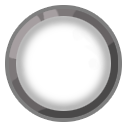
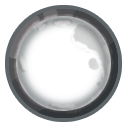
0.5.1 Energy Orb added

Changed region(s): [[0.0312, 0.0312, 0.9688, 0.9688], [0.7188, 0.7188, 0.75, 0.75]]

diff --git a/src/main/java/rubimod/powers/debuff/Sin.java b/src/main/java/rubimod/powers/debuff/Sin.java
@@ -1,5 +1,6 @@
 package rubimod.powers.debuff;
 
+import com.badlogic.gdx.math.MathUtils;
 import com.megacrit.cardcrawl.core.AbstractCreature;
 import com.megacrit.cardcrawl.dungeons.AbstractDungeon;
 import com.megacrit.cardcrawl.powers.AbstractPower;
@@ -12,10 +13,6 @@ public class Sin extends BasePower {
     public static final String POWER_ID = makeID(Sin.class.getSimpleName());
     private static final AbstractPower.PowerType TYPE = AbstractPower.PowerType.DEBUFF;
     private static final boolean TURN_BASED = false;
-    //The only thing TURN_BASED controls is the color of the number on the power icon.
-    //Turn based powers are white, non-turn based powers are red or green depending on if their amount is positive or negative.
-    //For a power to actually decrease/go away on its own they do it themselves.
-    //Look at powers that do this like VulnerablePower and DoubleTapPower.
 
     public Sin(AbstractCreature owner, int amount) {
         super(POWER_ID, TYPE, TURN_BASED, owner, amount);
@@ -25,6 +22,36 @@ public class Sin extends BasePower {
     public void stackPower(int stackAmount) {
         super.stackPower(stackAmount);
         updateDescription();
+    }
+
+    public static int calculateSin(AbstractCreature target, AbstractCreature source, int base)
+    {int new_damage = base;
+        if (target.hasPower(Sin.POWER_ID))
+        {
+            float sin_potency = 0.1f;
+            if (source.isPlayer && AbstractDungeon.player.hasRelic(PaperUmbrella.ID)) {
+                sin_potency = 0.15f;
+                AbstractDungeon.player.getRelic(PaperUmbrella.ID).flash();
+            }
+            System.out.println("At potency " + sin_potency + ".");
+
+            new_damage = MathUtils.floor(
+                    (
+                            (float) base
+                    ) * (
+                            1.0f + (
+                                    (
+                                            (float) target.getPower(Sin.POWER_ID).amount
+                                    ) * sin_potency
+                            )
+                    ) + 0.5f
+            ); // apply sin and round down
+
+            if (new_damage < 0)
+                new_damage = 0;
+        }
+
+        return new_damage;
     }
 
     public void updateDescription() {

diff --git a/src/main/java/rubimod/actions/NecroticDamageAction.java b/src/main/java/rubimod/actions/NecroticDamageAction.java
@@ -1,13 +1,11 @@
 package rubimod.actions;
 
-import com.badlogic.gdx.math.MathUtils;
 import com.megacrit.cardcrawl.actions.AbstractGameAction;
 import com.megacrit.cardcrawl.actions.common.DamageAction;
 import com.megacrit.cardcrawl.cards.DamageInfo;
 import com.megacrit.cardcrawl.core.AbstractCreature;
-import com.megacrit.cardcrawl.dungeons.AbstractDungeon;
-import rubimod.powers.debuff.Sin;
-import rubimod.relics.PaperUmbrella;
+
+import static rubimod.powers.debuff.Sin.calculateSin;
 
 public class NecroticDamageAction extends AbstractGameAction {
     private final DamageInfo info;
@@ -26,36 +24,6 @@ public class NecroticDamageAction extends AbstractGameAction {
         this.setValues(target, info);
         this.actionType = ActionType.DAMAGE;
         this.attackEffect = AttackEffect.NONE;
-    }
-
-    public static int calculateSin(AbstractCreature target, AbstractCreature source, int base)
-    {int new_damage = base;
-        if (target.hasPower(Sin.POWER_ID))
-        {
-            float sin_potency = 0.1f;
-            if (source.isPlayer && AbstractDungeon.player.hasRelic(PaperUmbrella.ID)) {
-                sin_potency = 0.15f;
-                AbstractDungeon.player.getRelic(PaperUmbrella.ID).flash();
-            }
-            System.out.println("At potency " + sin_potency + ".");
-
-            new_damage = MathUtils.floor(
-                    (
-                            (float) base
-                    ) * (
-                            1.0f + (
-                                    (
-                                            (float) target.getPower(Sin.POWER_ID).amount
-                                    ) * sin_potency
-                            )
-                    )
-            ); // apply sin and round down
-
-            if (new_damage < 0)
-                new_damage = 0;
-        }
-
-        return new_damage;
     }
 
     public void update()

diff --git a/src/main/java/rubimod/character/Hegemon.java b/src/main/java/rubimod/character/Hegemon.java
@@ -24,7 +24,6 @@ import rubimod.cards.attacks.starter.Strike;
 import rubimod.cards.skills.starter.CloakofNight;
 import rubimod.cards.skills.starter.Defend;
 import rubimod.cards.skills.starter.MidnightEyes;
-import rubimod.cards.skills.uncommon.SkillBookColorless;
 import rubimod.relics.MysteriousStranger;
 
 import java.util.ArrayList;
@@ -100,7 +99,7 @@ public class Hegemon extends CustomPlayer {
             characterPath("energyorb/layer4.png"),
             characterPath("energyorb/layer5.png"),
             characterPath("energyorb/cover.png"), //"container"
-            characterPath("energyorb/layer1d.png"), //When you don't have energy
+            characterPath("energyorb/layer1.png"), //When you don't have energy
             characterPath("energyorb/layer2d.png"),
             characterPath("energyorb/layer3d.png"),
             characterPath("energyorb/layer4d.png"),
@@ -189,9 +188,9 @@ public class Hegemon extends CustomPlayer {
         };
     }
 
-    private final Color cardRenderColor = Color.BLACK.cpy(); //Used for some vfx on moving cards (sometimes) (maybe)
-    private final Color cardTrailColor = Color.BLACK.cpy(); //Used for card trail vfx during gameplay.
-    private final Color slashAttackColor = Color.BLACK.cpy(); //Used for a screen tint effect when you attack the heart.
+    private final Color cardRenderColor = Color.DARK_GRAY.cpy(); //Used for some vfx on moving cards (sometimes) (maybe)
+    private final Color cardTrailColor = Color.DARK_GRAY.cpy(); //Used for card trail vfx during gameplay.
+    private final Color slashAttackColor = Color.DARK_GRAY.cpy(); //Used for a screen tint effect when you attack the heart.
     @Override
     public Color getCardRenderColor() {
         return cardRenderColor;

diff --git a/src/main/java/rubimod/actions/SkillBookAction.java b/src/main/java/rubimod/actions/SkillBookAction.java
@@ -49,10 +49,13 @@ public class SkillBookAction extends AbstractGameAction {
             choice = 0;
 
         AbstractCard tmp = cardList.get(choice);
-        if (upgraded)
+        if (this.upgraded)
             tmp.upgrade();
-        if (single_use.equals(SingleUse.TRUE))
+        if (this.single_use.equals(SingleUse.TRUE))
+        {
             tmp.exhaustOnUseOnce = true;
+            tmp.exhaust = true;
+        }
 
         addToTop(new MakeTempCardInHandAction(tmp));
         this.isDone = true;

diff --git a/src/main/java/rubimod/actions/NecrotoxinLoseHPAction.java b/src/main/java/rubimod/actions/NecrotoxinLoseHPAction.java
@@ -10,7 +10,7 @@ import com.megacrit.cardcrawl.dungeons.AbstractDungeon;
 import com.megacrit.cardcrawl.rooms.AbstractRoom;
 import com.megacrit.cardcrawl.vfx.combat.FlashAtkImgEffect;
 
-import static rubimod.actions.NecroticDamageAction.calculateSin;
+import static rubimod.powers.debuff.Sin.calculateSin;
 
 public class NecrotoxinLoseHPAction extends PoisonLoseHpAction {
     public NecrotoxinLoseHPAction(AbstractCreature target, AbstractCreature source, int amount, AbstractGameAction.AttackEffect effect) {

diff --git a/src/main/java/rubimod/powers/buff/StudiousPower.java b/src/main/java/rubimod/powers/buff/StudiousPower.java
@@ -24,8 +24,8 @@ public class StudiousPower extends BasePower {
     }
 
     @Override
-    public void atStartOfTurnPostDraw() {
-        super.atStartOfTurnPostDraw();
+    public void atStartOfTurn() {
+        super.atStartOfTurn();
 
         addToBot(new SkillBookAction(AbstractCard.CardRarity.UNCOMMON, LIBRARY_COLOR, SkillBookAction.SingleUse.TRUE));
         this.flashWithoutSound();
